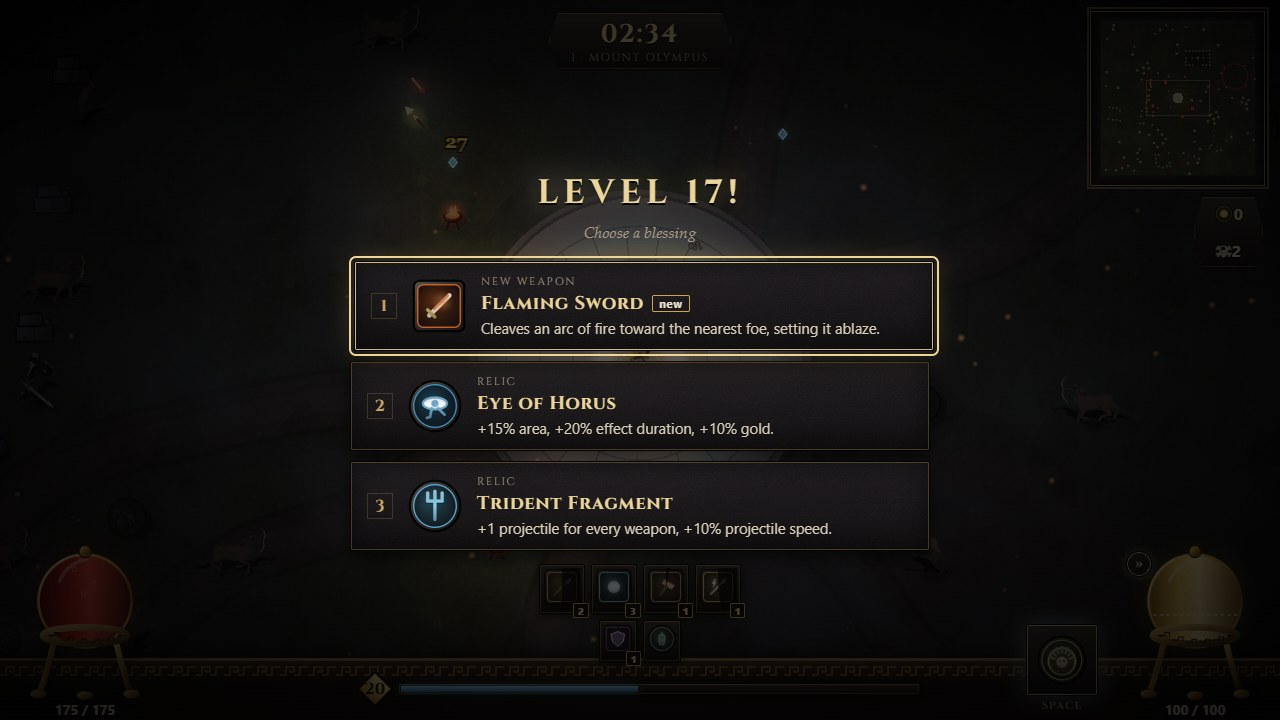
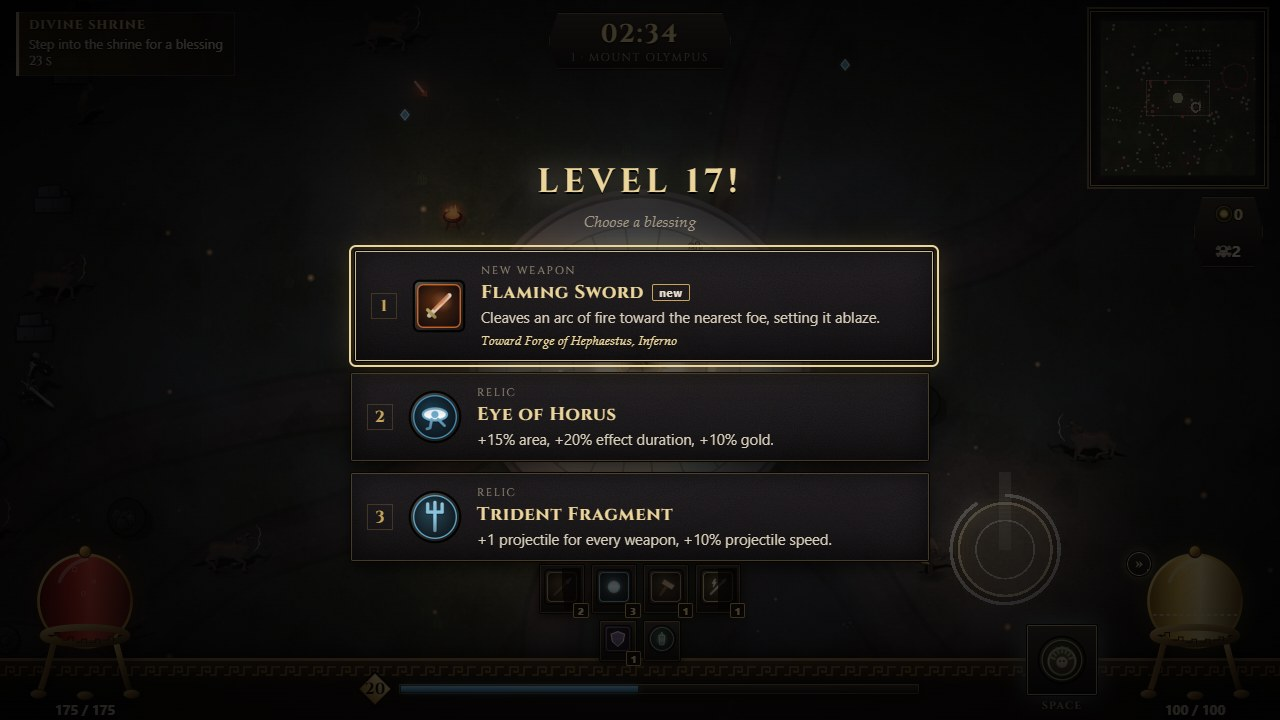
Docs and pictures for v0.15.0: fusions, the build panel, Call of Hermes, harder realms
README and gameplay.md describe the new features; a build scene in the docs
capture script adds build-panel.jpg and hermes.gif; level-up.jpg (now with
its hint), gate.jpg and summary.jpg are recaptured.

diff --git a/README.md b/README.md
@@ -2,7 +2,7 @@
 
 *Unleash the gods. Survive the divine war.*
 
-An original mythological horde-survival roguelite that runs entirely in the browser. Choose a god, survive ever-larger hordes in procedurally generated realms of Greek myth, combine weapons, armour, relics and skills into synergies, defeat each realm's boss and pass its gate into the next, harder realm. The run goes on until every god has fallen; then spend your rewards on lasting upgrades and go again. Play alone, with up to three friends on one screen, or in a co-op room joined by code.
+An original mythological horde-survival roguelite that runs entirely in the browser. Choose a god, survive ever-larger hordes in procedurally generated realms of Greek myth, combine weapons, armour, relics and skills into synergies and fusions, defeat each realm's boss and pass its gate into the next, harder realm. The run goes on until every god has fallen; then spend your rewards on lasting upgrades and go again. Play alone, with up to three friends on one screen, or in a co-op room joined by code.
 
 <img src="docs/images/hero.gif" width="100%" alt="A run in every realm: Mount Olympus, the Underworld, the Lernaean Marsh, the Aegean Shore and the Labyrinth of Crete">
 
@@ -10,10 +10,13 @@ An original mythological horde-survival roguelite that runs entirely in the brow
 - **Daily Trial:** one run a day, the same for everyone: a god, a realm, a seed and a twist such as Swift Foes or Glass God. Your best today is kept, and any run can be shared as a picture and a challenge link that starts the same run for a friend. Co-op rooms have **Invite** links that open the room ready to join.
 - **Quick runs:** realms at twice the pace, with the boss at 3:30 instead of 7:00, and their own high-score table. Made for a break on the phone.
 - **Sprint and dash:** an orb of golden ichor beside your orb of blood; sprint away, or dash through an attack untouched.
-- **Five realms, endless runs:** Mount Olympus, the Underworld, the Lernaean Marsh, the Aegean Shore and the Labyrinth of Crete. Each has its own map, monsters and boss: the Cyclops, Cerberus, the Hydra, Scylla and Asterion. After the Labyrinth comes Olympus again, harder.
+- **Five realms, endless runs:** Mount Olympus, the Underworld, the Lernaean Marsh, the Aegean Shore and the Labyrinth of Crete. Each has its own map, monsters and boss: the Cyclops, Cerberus, the Hydra, Scylla and Asterion. Every realm cleared makes the next much harder: monster and boss health and damage multiply, more come, and the horde is there from the start. After the Labyrinth comes Olympus again, harder still.
 - **Bosses with a signature:** the Cyclops rages, Cerberus fights with three heads, the Hydra's heads must fall in order, Scylla's tentacles hold the ground and Asterion shifts the Labyrinth's walls. Every attack is telegraphed, and a dash at the last moment is a perfect dodge.
 - **Battle music:** composed in code, it grows from calm to metal as the realm's boss draws near, the horde closes in and the realms go by.
 - **Build a god:** 10 weapons, 4 armours, 6 relics, 16 skills and 7 synergies; permanent upgrades and a codex between runs.
+- **A tree of fusions:** upgrades at their top level fuse into 14 fusions in three tiers, from *Forge of Hephaestus* (Flaming Sword and War Hammer at level 6) up to **Apotheosis**. Endless **Ascensions** fill the choice once little is left, so every level-up still offers three real choices. Level-up offers say what they count toward.
+- **The build panel:** press Tab (Back/Select on a gamepad, the hexagon button on a phone) during a run to see your whole build and every fusion and synergy your god can reach, with what is met and the level still needed. The fight goes on behind it.
+- **Call of Hermes:** when experience lies out of reach, a level-up may offer it. Every gem in the realm streams to you.
 - **The Wandering Merchant:** twice a realm, trade the run's gold for companions (an eagle, a hound, a serpent) that fight beside you, whetstones and ambrosia.
 - **Glory:** a score for every run, solo and co-op high scores, 18 achievements and three daily quests.
 - **Co-op:** up to four players on one screen (keyboard and gamepads, one camera that zooms out to frame everyone), or in rooms peer to peer; difficulty per player; a living ally revives a fallen god by standing beside their spirit.
@@ -30,8 +33,10 @@ An original mythological horde-survival roguelite that runs entirely in the brow
 | ![The merchant's shop](docs/images/shop.jpg) | ![Companions fighting beside Athena, and a dash](docs/images/merchant.gif) | ![High scores, achievements and daily quests](docs/images/glory.jpg) |
 | **Together on one screen** | **Players and allies** | **Four at one screen** |
 | ![Two players on one keyboard walk apart and the camera zooms out](docs/images/together.gif) | ![God selection with a second player and two bot allies](docs/images/gods.jpg) | ![Four players at one screen, a plaque in every corner](docs/images/together-four.jpg) |
-| **On a phone, sideways** | **Menus upright** | |
-| ![A run on a phone: the stick under the left thumb, Power, Dash and Sprint on the right, the orbs between](docs/images/phone.jpg) | ![God selection on a phone held upright](docs/images/phone-gods.jpg) | |
+| **On a phone, sideways** | **Menus upright** | **Call of Hermes** |
+| ![A run on a phone: the stick under the left thumb, Power, Dash and Sprint on the right, the orbs between](docs/images/phone.jpg) | ![God selection on a phone held upright](docs/images/phone-gods.jpg) | ![Call of Hermes: every experience gem in the realm streams to the god](docs/images/hermes.gif) |
+| **The build panel** | | |
+| ![The build panel: the whole build and the tree of fusions, each requirement ticked or with the level still needed](docs/images/build-panel.jpg) | | |
 
 **Play it:** [olympus.138-2-144-201.sslip.io](https://olympus.138-2-144-201.sslip.io/), or download the game from [Releases](https://github.com/David-Letonja-CTG/Olympus-Unbound/releases)
 

diff --git a/docs/gameplay.md b/docs/gameplay.md
@@ -150,7 +150,7 @@ Health 135, speed 205, armour 2, critical chance 12% (with her passive): a preci
 
 ## The realms
 
-Five realms, each with its own map, monsters and boss, in the order a run passes through them (after the Labyrinth comes Mount Olympus again, harder).
+Five realms, each with its own map, monsters and boss, in the order a run passes through them (after the Labyrinth comes Mount Olympus again, harder). Every realm cleared makes the next much harder: monsters have three times the health and half again the damage of the realm before, bosses grow too, more monsters come, and a deeper realm opens with its horde already there.
 
 ![A still from every realm](images/realms.jpg)
 
@@ -277,6 +277,10 @@ The Minotaur, king of the Labyrinth, with a bronze labrys (18,000 health, 380 go
 - **Ascensions** (Strength, Vigour, Speed, Fortune) have no top level and fill the choice once fewer than three other upgrades are left, so every level-up offers three real choices until the end.
 - **The build panel** (Tab, a gamepad's Back/Select, or the hexagon button on a phone) shows your whole build and the tree of every fusion and synergy your god can reach: each requirement ticked or with the level still needed, and which fusions are ready. The fight goes on behind it, and it opens over a level-up choice too.
 - Content without ascensions falls back to **Ambrosia** (heal 30%) or **Tribute** (25 gold).
+
+| The build panel | Call of Hermes |
+|---|---|
+| ![The build panel: the whole build and the tree of fusions, each requirement ticked or with the level still needed](images/build-panel.jpg) | ![Call of Hermes: every experience gem in the realm streams to the god](images/hermes.gif) |
 
 ## The Wandering Merchant
 
